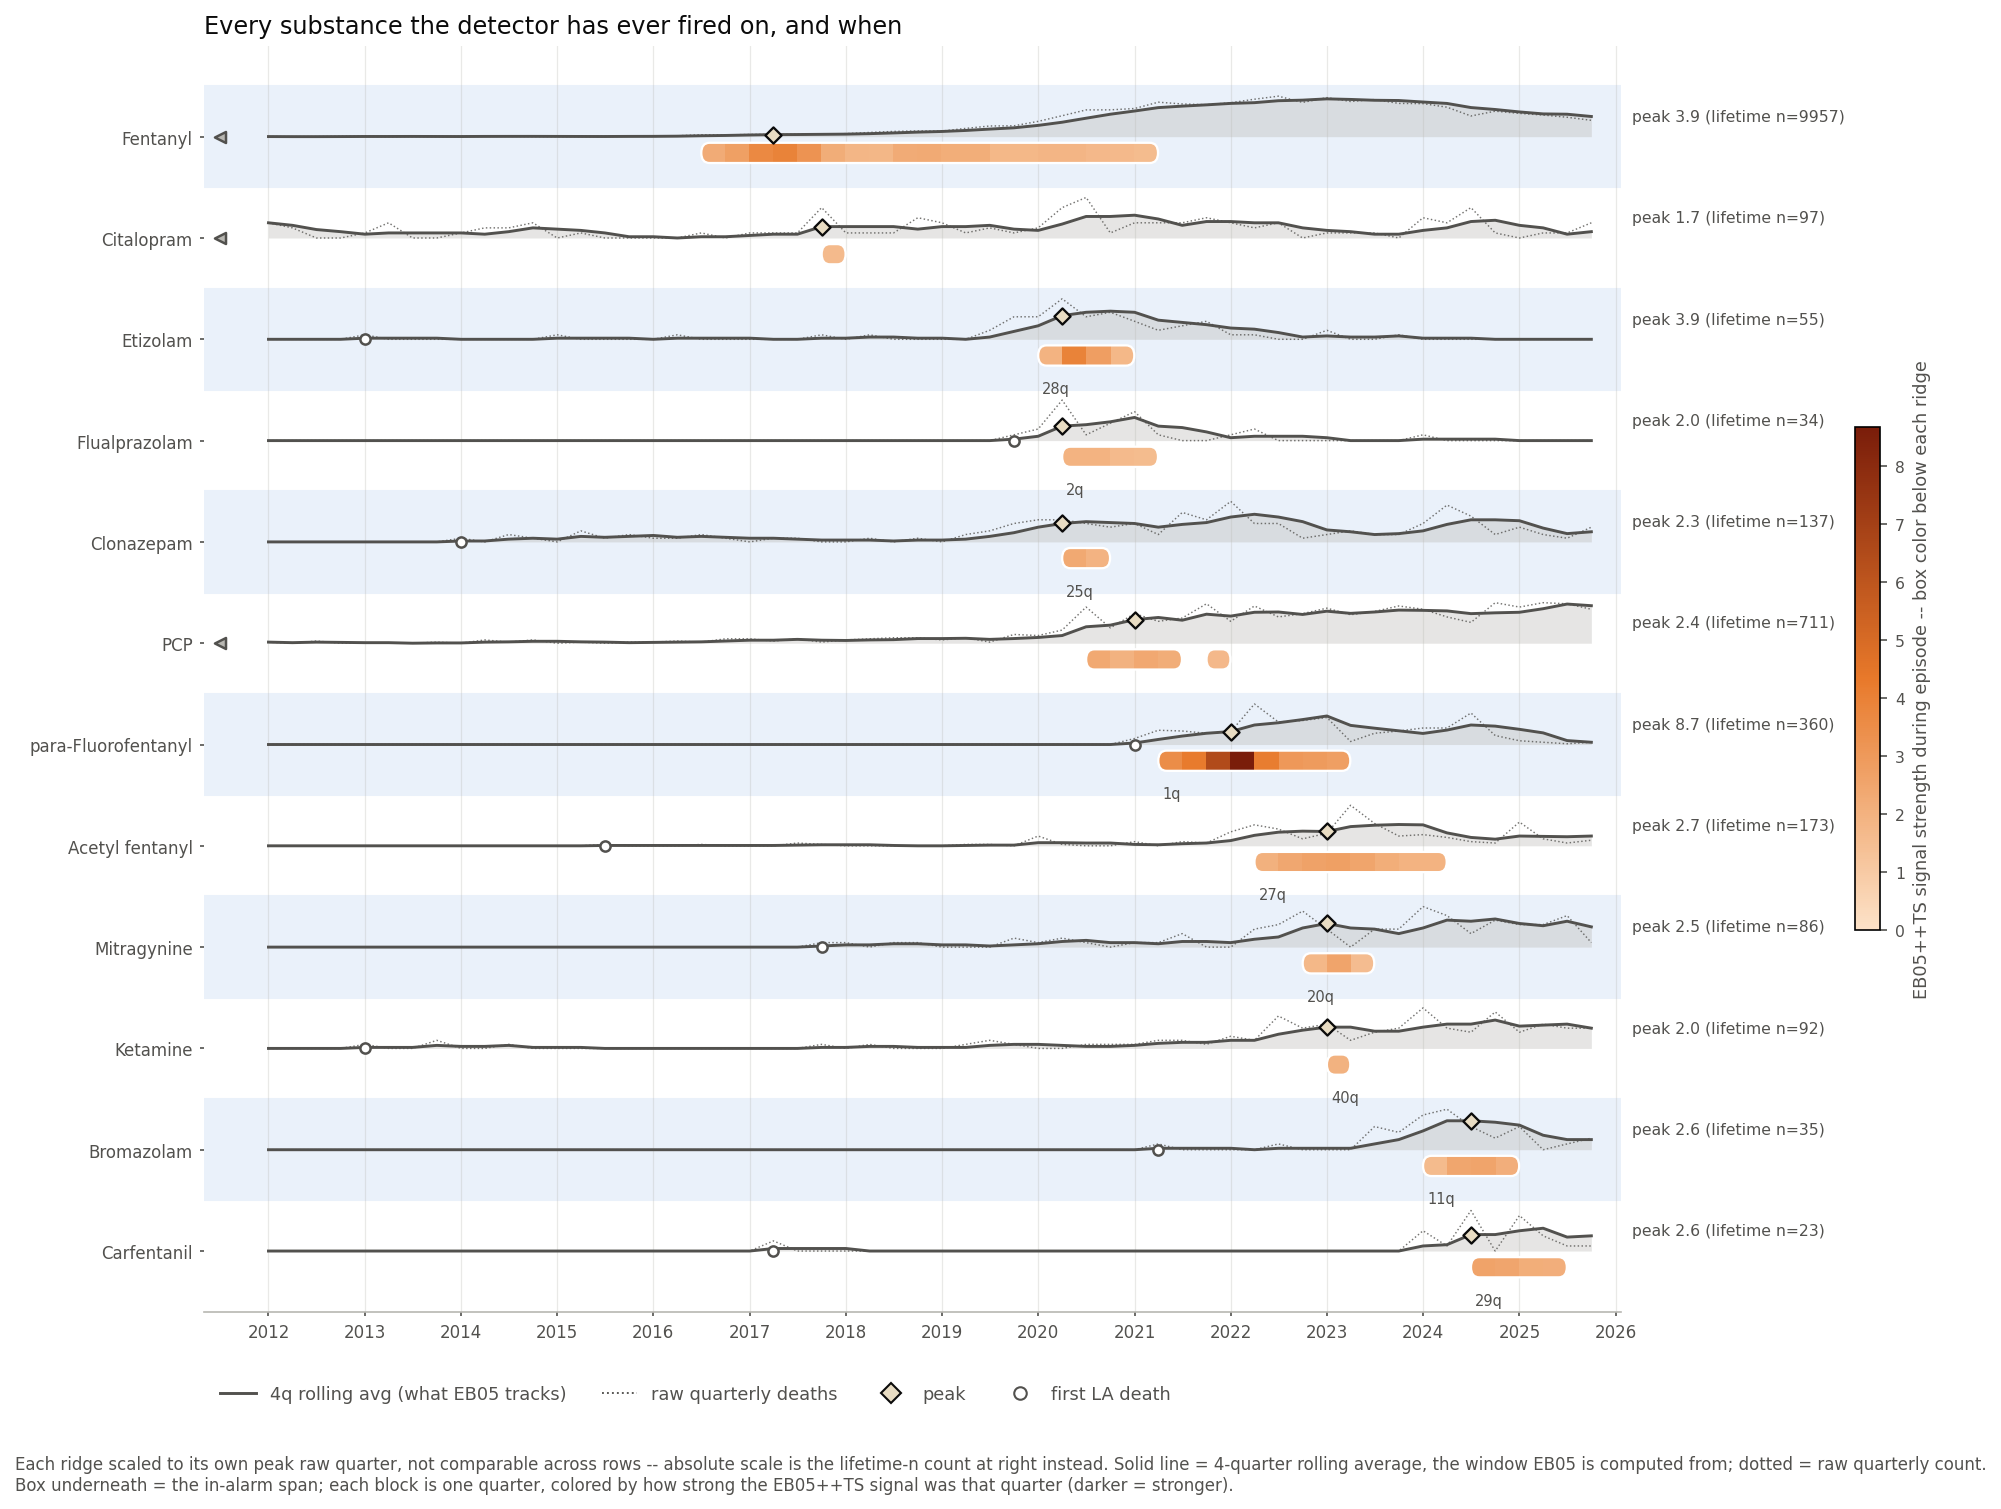
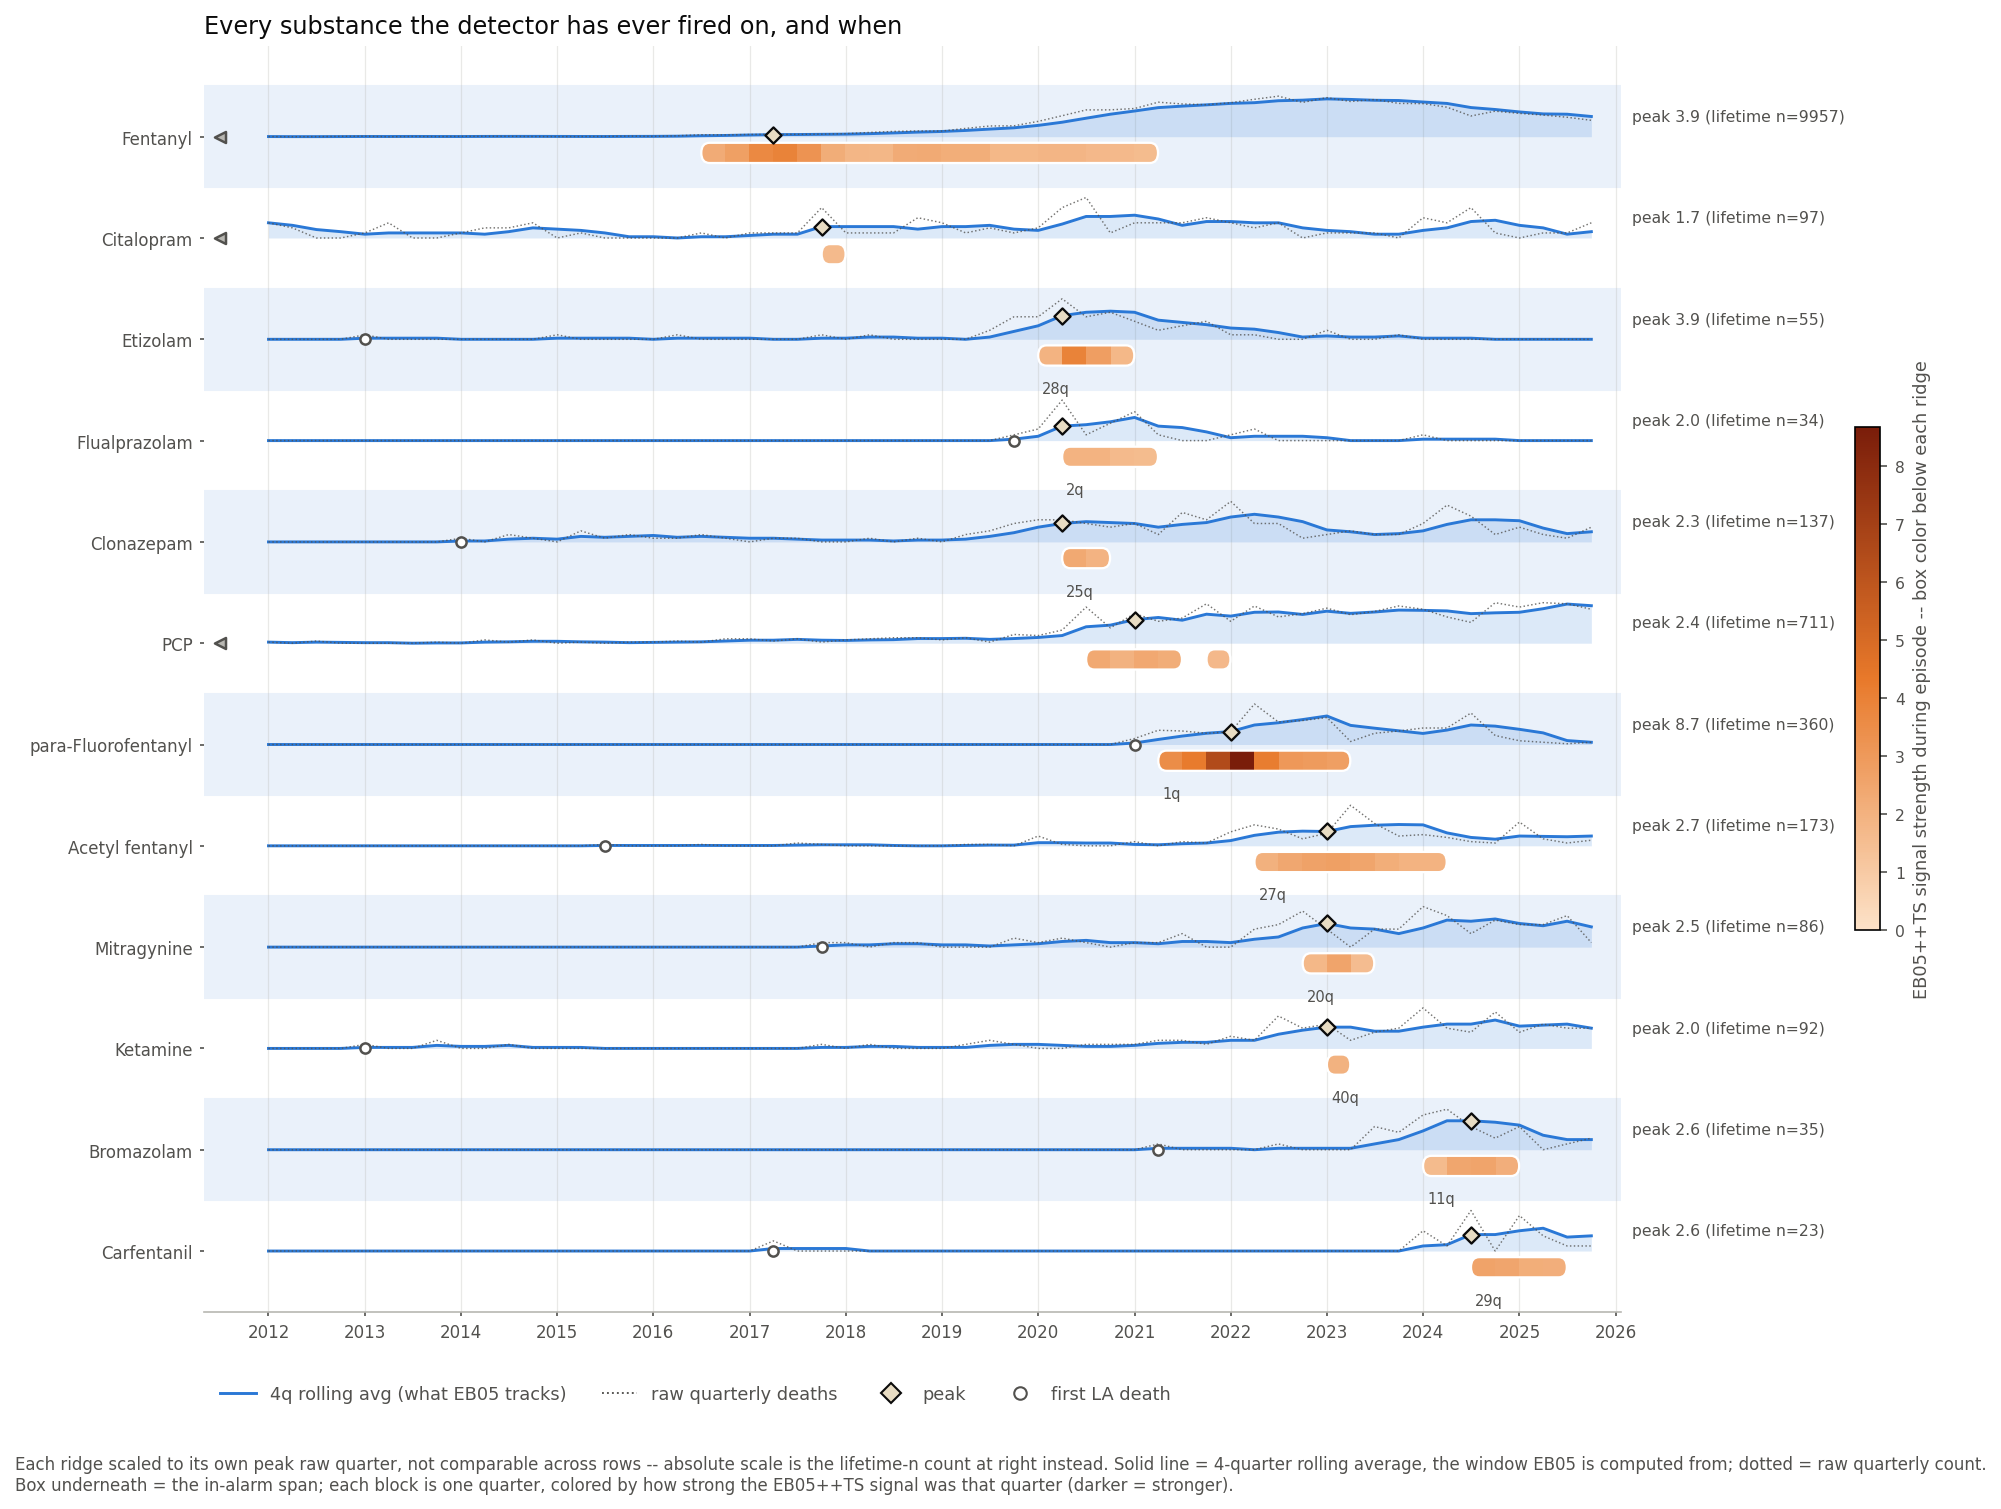
style(trends): ridgeline fill/line blue instead of grey
Grey read as flat/lifeless against the orange episode boxes. Switched to
BLUE, the same "quarterly death count" identity color _panel already uses
for Figure 1's trend lines, so the ridgeline reads as part of the same
visual system rather than a bespoke grey-on-orange scheme.

novelty_vs_growth.png/share_heatmap.png: incidental re-render from running
`trends plot`, no code change behind either.

Claude-Session: https://claude.ai/code/session_015TpK6sH4zL32MGSB3TajPh

diff --git a/emerging/analysis/trends.py b/emerging/analysis/trends.py
@@ -2128,8 +2128,10 @@ def _alarm_history_ridgeline(
         # Smoothed curve is the primary shape (bold, filled) -- it's what
         # the alarm actually reacts to. Raw quarterly counts sit on top as
         # a thin dotted line so the real, noisier trendline stays visible.
-        ax.plot(x, y_smooth, color=INK_2, linewidth=1.4, zorder=3)
-        ax.fill_between(x, i, y_smooth, color=MUTED, alpha=0.35, linewidth=0,
+        # BLUE, not grey: the same "quarterly death count" identity color
+        # `_panel` uses for Figure 1's trend lines.
+        ax.plot(x, y_smooth, color=BLUE, linewidth=1.4, zorder=3)
+        ax.fill_between(x, i, y_smooth, color=BLUE, alpha=0.16, linewidth=0,
                         zorder=2)
         ax.plot(x, y_raw, color=INK_2, linewidth=0.7, linestyle=":",
                alpha=0.8, zorder=4)
@@ -2191,7 +2193,7 @@ def _alarm_history_ridgeline(
 
     any_open = bool(h["still_open"].any())
     leg = [
-        plt.Line2D([], [], color=INK_2, linewidth=1.4,
+        plt.Line2D([], [], color=BLUE, linewidth=1.4,
                   label=f"{RECENT_QUARTERS}q rolling avg (what EB05 tracks)"),
         plt.Line2D([], [], color=INK_2, linewidth=0.9, linestyle=":",
                   label="raw quarterly deaths"),
